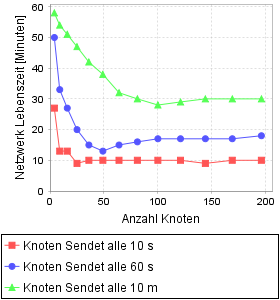
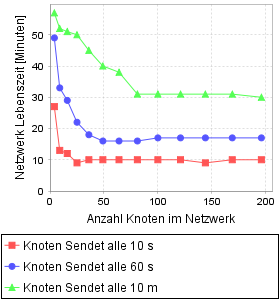
Lebenszeitanalyse durchgeführt

diff --git a/src/AODV_RFC/AodvNetworkNode.java b/src/AODV_RFC/AodvNetworkNode.java
@@ -9,6 +9,7 @@ import SimulationNetwork.PayloadMessage;
 public class AodvNetworkNode extends NetworkNode{
 	
 	private static final long HELLO_INTERVAL = 5*60000;	//HELLO_INTERVAL in ms
+	private static final long MAX_ROUTE_LIFETIME = 9*60*1000;
 	
 	private LinkedList<RouteTableEntry> routingTable;
 	private LinkedList<Message> waitingForRouteBuffer;
@@ -40,6 +41,7 @@ public class AodvNetworkNode extends NetworkNode{
 		if(helloInvervalCounter >= HELLO_INTERVAL){
 			if(!sendBroadcastMessageInCurrentHelloInterval){
 				//Generate and send hello message
+				generateHelloMessage();
 			}
 			//reset helloInvervalCounter and msg send flag
 			this.helloInvervalCounter = 0L;
@@ -71,6 +73,14 @@ public class AodvNetworkNode extends NetworkNode{
 		}
 	}
 
+	private void updateLifetimeOfRoutes(long executionTime){
+		for(RouteTableEntry routeTableEntry: routingTable){
+			if(routeTableEntry.isValid()){
+				routeTableEntry.decrementRouteLifetime(executionTime);
+			}
+		}
+	}
+	
 	@Override
 	public void processRecivedMessage() {
 		Message recivedMsg = inputBuffer.removeFirst();
@@ -101,7 +111,7 @@ public class AodvNetworkNode extends NetworkNode{
 	private void reciveRREQ(RREQ msg){
 		//System.out.println(""+simulator.getNetworkLifetime() +": Node "+ this.id + ": Recive RREQ from Node " + msg.getSenderID() + ". DestinationNode: " + msg.getDestination_IP_Addresse());
 		//Update route table entry for rreq transmitter node
-		updateRouteTable(msg.getSenderID(), -1, 1, msg.getSenderID());
+		updateRouteTable(msg.getSenderID(), -1, 1, msg.getSenderID(), MAX_ROUTE_LIFETIME);
 		
 		//search for already received RREQ with same Originator IP Address and RREQ ID
 		for(TransmittedRREQ rreq: recivedRREQs){
@@ -115,7 +125,7 @@ public class AodvNetworkNode extends NetworkNode{
 		
 		//Update routingtable for rreq originator
 		if(msg.getOriginator_IP_Adress() != this.id){
-			updateRouteTable(msg.getOriginator_IP_Adress(), msg.getOriginator_Sequence_Number(), msg.getHop_Count()+1, msg.getSenderID());
+			updateRouteTable(msg.getOriginator_IP_Adress(), msg.getOriginator_Sequence_Number(), msg.getHop_Count()+1, msg.getSenderID(), MAX_ROUTE_LIFETIME);
 	
 			
 			//Search for route to destination
@@ -158,6 +168,7 @@ public class AodvNetworkNode extends NetworkNode{
 				rrep.setDestinationID(getNextHopToDestination(msg.getOriginator_IP_Adress()));
 				rrep.setSenderID(this.id);
 				rrep.setTimeToLive(msg.getHop_Count() *2);
+				rrep.setLifetime(9*60*1000); //Lifetime of Route = 9 minutes
 				
 				this.addNodeAsPrecursor(rrep.getDestinationID(), rrep.getDestination_IP_Adress());
 				
@@ -197,7 +208,7 @@ public class AodvNetworkNode extends NetworkNode{
 		}
 	}
 	
-	private boolean updateRouteTable(int destination, int sequenceNumber, int hopCount, int nextHop){
+	private boolean updateRouteTable(int destination, int sequenceNumber, int hopCount, int nextHop, long maxRouteLifetime){
 		boolean routeAlreadyExists = false;
 		boolean routingTableUpdated = false;
 		for(RouteTableEntry route: routingTable){
@@ -208,9 +219,13 @@ public class AodvNetworkNode extends NetworkNode{
 					route.setHopCount(hopCount);
 					route.setNextHop(nextHop);
 					route.setValid(true);
+					route.setLifetime(maxRouteLifetime);
+
 					routingTableUpdated = true;
-					//TODO: set Lifetime
-					//route.setLifetime();
+				}
+				
+				if((route.getDestinationSequenceNumber() <= sequenceNumber) && (route.getLifetime() < maxRouteLifetime)){
+					route.setLifetime(maxRouteLifetime);
 				}
 				
 				if(!route.isValid()){
@@ -218,9 +233,9 @@ public class AodvNetworkNode extends NetworkNode{
 					route.setHopCount(hopCount);
 					route.setNextHop(nextHop);
 					route.setValid(true);
+					route.setLifetime(maxRouteLifetime);
+
 					routingTableUpdated = true;
-					//TODO: set Lifetime
-					//route.setLifetime()
 				}
 				
 			}
@@ -234,8 +249,9 @@ public class AodvNetworkNode extends NetworkNode{
 			route.setHopCount(hopCount);
 			route.setNextHop(nextHop);
 			route.setValid(true);
+			route.setLifetime(maxRouteLifetime);
+
 			routingTableUpdated = true;
-			//route.setLifetime();
 			routingTable.add(route);
 		}
 		
@@ -255,12 +271,12 @@ public class AodvNetworkNode extends NetworkNode{
 		//System.out.println(""+simulator.getNetworkLifetime() +": Node "+ this.id + ": Recive RREP from Node " + msg.getSenderID() + ". DestinationNode: " + msg.getDestination_IP_Adress() + "; HopCount: " + msg.getHop_Count());
 		this.numberRecivedRREPdMsg++;
 		//Update routing table for previous hop
-		updateRouteTable(msg.getSenderID(), -1, 1, msg.getSenderID());
+		updateRouteTable(msg.getSenderID(), -1, 1, msg.getSenderID(), MAX_ROUTE_LIFETIME);
 		
 		int nextHopCount = msg.getHop_Count() +1;
 		
 		//Update routing table for desintation node
-		if(updateRouteTable(msg.getDestination_IP_Adress(), msg.getDestination_Sequence_Number(), nextHopCount, msg.getSenderID())){
+		if(updateRouteTable(msg.getDestination_IP_Adress(), msg.getDestination_Sequence_Number(), nextHopCount, msg.getSenderID(), msg.getLifetime())){
 			//Forward RREP if routing table was updated
 			
 			//Forward RREP-Message if TTL > 0

diff --git a/src/AODV_RFC/RouteTableEntry.java b/src/AODV_RFC/RouteTableEntry.java
@@ -9,7 +9,7 @@ public class RouteTableEntry {
 	private int validDestinationSequenceNumberFlag;
 	private int hopCount;
 	private int nextHop;
-	private int lifetime;
+	private long lifetime;
 	private boolean valid;
 	private LinkedList<Integer> precursorList;
 	
@@ -58,11 +58,11 @@ public class RouteTableEntry {
 		this.nextHop = nextHop;
 	}
 	
-	public int getLifetime() {
+	public long getLifetime() {
 		return lifetime;
 	}
 	
-	public void setLifetime(int lifetime) {
+	public void setLifetime(long lifetime) {
 		this.lifetime = lifetime;
 	}
 
@@ -84,6 +84,15 @@ public class RouteTableEntry {
 
 	public void addPrecursor(Integer precursor) {
 		this.precursorList.add(precursor);
+	}
+
+
+	public void decrementRouteLifetime(long executionTime) {
+		this.lifetime -= executionTime;
+		if(this.lifetime <= 0){
+			this.valid = false;
+		}
+		
 	}
 	
 }

diff --git a/src/Simulator/Main.java b/src/Simulator/Main.java
@@ -24,8 +24,8 @@ public class Main {
 		AodvEvaluationUnit aodvEvaluationUnit = new AodvEvaluationUnit();
 		//aodvEvaluationUnit.evaluateSpeedAnalysis();
 		//aodvEvaluationUnit.evaluateCostAnalysis();
-		//aodvEvaluationUnit.evaluateNetworkLivetimeStaticSendBehavior(1);
-		aodvEvaluationUnit.evaluateNetworkLivetimeStaticSendBehavior(10);
+		aodvEvaluationUnit.evaluateNetworkLivetimeStaticSendBehavior(1);
+		//aodvEvaluationUnit.evaluateNetworkLivetimeStaticSendBehavior(10);
 		//aodvEvaluationUnit.evaluateNetworkLivetimeStaticSendBehavior(100);
 		//aodvEvaluationUnit.evaluateNetworkLivetimeStaticSendBehavior(1000);
 		//aodvEvaluationUnit.evaluateNetworkLivetimeStaticSendBehavior(10000);
